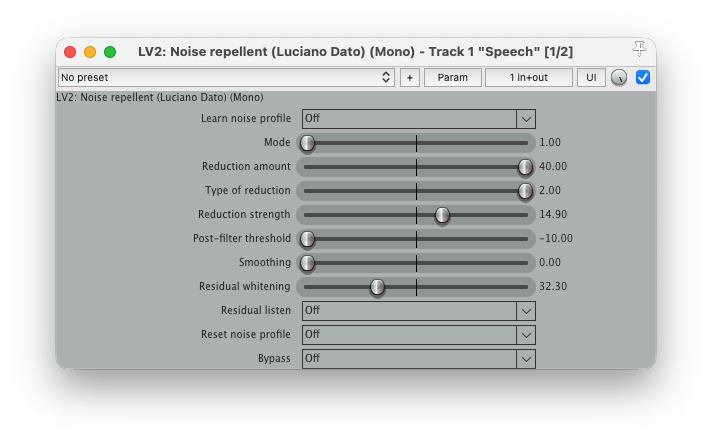
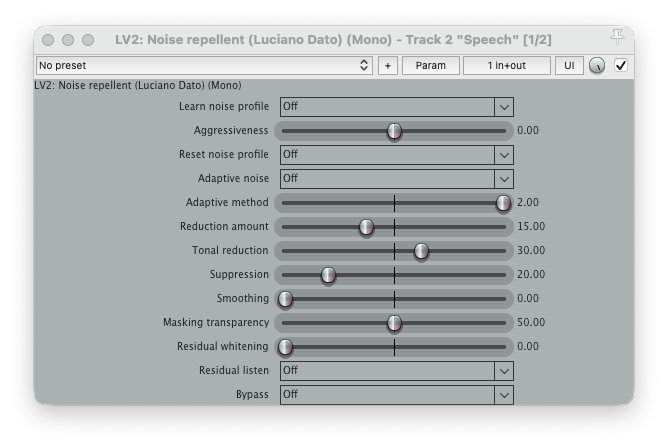
feat: Update README with detailed feature descriptions, replace adaptive screenshots with 2D NLM, and adjust default plugin parameters.

diff --git a/README.md b/README.md
@@ -6,19 +6,42 @@ A suite of LV2 plugins for real-time spectral noise reduction, built on the [lib
 
 ## Features
 
-* **Manual capture noise reduction**: Typical noise reduction where you capture a noise profile.
-* **Adaptive noise reduction**: Automatic noise suppression, optimized for voice (low latency).
-* **Adjustable parameters**: Reduction amount, smoothing, whitening, and transient protection.
-* **Residual listening**: Hear exactly what is being removed.
-* **Soft bypass**: Cross-faded bypass to avoid clicks.
-* **State saving**: Noise profiles are saved with your host session.
+### Advanced Denoising Algorithms
+* **2D Non-Local Means (NLM)**: Uses spectral-temporal pattern matching to suppress musical noise while preserving high-frequency detail and textures.
+* **Manual Profiling**: Classic noise reduction using a user-captured noise profile from a silent section.
+* **Adaptive Estimation**: Real-time noise floor tracking with multiple algorithms.
+    * **Hybrid Operation**: Works on top of manual profiles to refine captured snapshots in real-time.
+    * **SPP-MMSE**: Robust, unbiased estimation for complex noise environments (best for voice).
+    * **Brandt (Trimmed Mean)**: Efficient estimation for steady-state broadband noise.
+    * **Martin Minimum Statistics**: Reliable tracking for slowly varying noise.
+
+
+### Precision Controls
+* **Tonal separation**: Independent reduction of harmonic content and tonal noise (hum, resonance).
+* **Intelligent Steering**: Adjustable aggressiveness to balance between different noise profile statistics (Mean, Median, Max).
+* **Adaptive Whitening**: Reshapes the residual noise floor to prevent coloring and artifacts.
+* **Masking Transparency (Veto)**: Protects transients and delicate details by balancing reduction against signal energy.
+* **Adjustable Smoothing**: Fine-tune the balance between artifact suppression and transient clarity.
+    * **Standard Denoising**: Uses temporal smoothing for stable noise reduction.
+    * **2D Denoising**: Uses NLM smoothing for pattern-based artifact removal.
+
+### Workflow & Integration
+* **Residual Listening**: Hear exactly what is being filtered out to fine-tune your settings.
+* **Soft Bypass**: Seamless, click-free A/B testing with cross-faded bypass.
+* **Full State Saving**: Noise profiles and all parameters are saved with the host session.
+
+
+### Compatibility
+* **Available as LV2 Plugins**: Optimized for Linux, macOS, and Windows.
+* **Stereo Support**: Ready for modern stereo production workflows.
+
 
 ## Screenshots
 
 ![Noise Repellent in Ardour](images/Noise-repellent-Ardour.png)
 ![Noise Repellent in Reaper](images/Noise-repellent-Reaper.png)
-![Adaptive Noise Repellent in Ardour](images/Noise-repellent-adaptive-Ardour.png)
-![Adaptive Noise Repellent in Reaper](images/Noise-repellent-adaptive-Reaper.png)
+![2D Noise Repellent in Ardour](images/2d-Noise-repellent-Ardour.png)
+![2D Noise Repellent in Reaper](images/2d-Noise-repellent-Reaper.png)
 
 ## Installation
 
